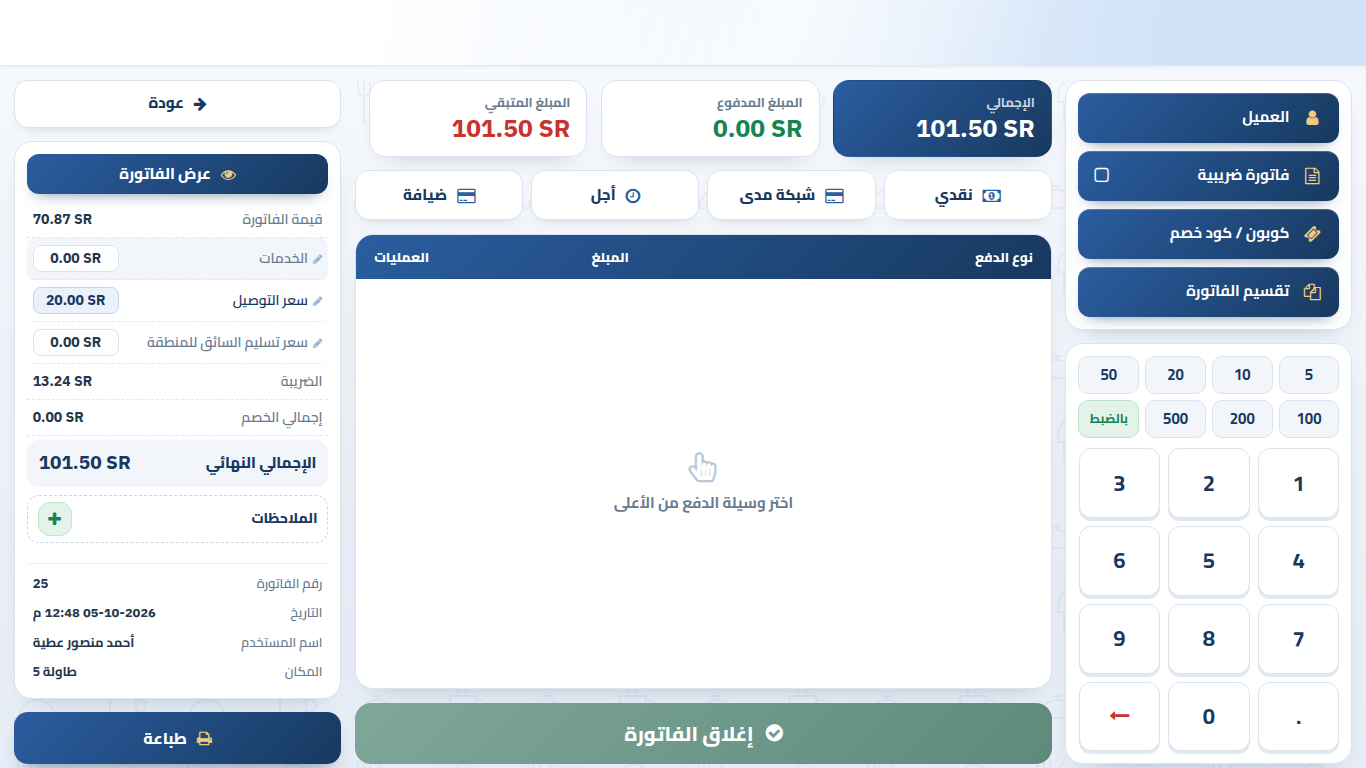
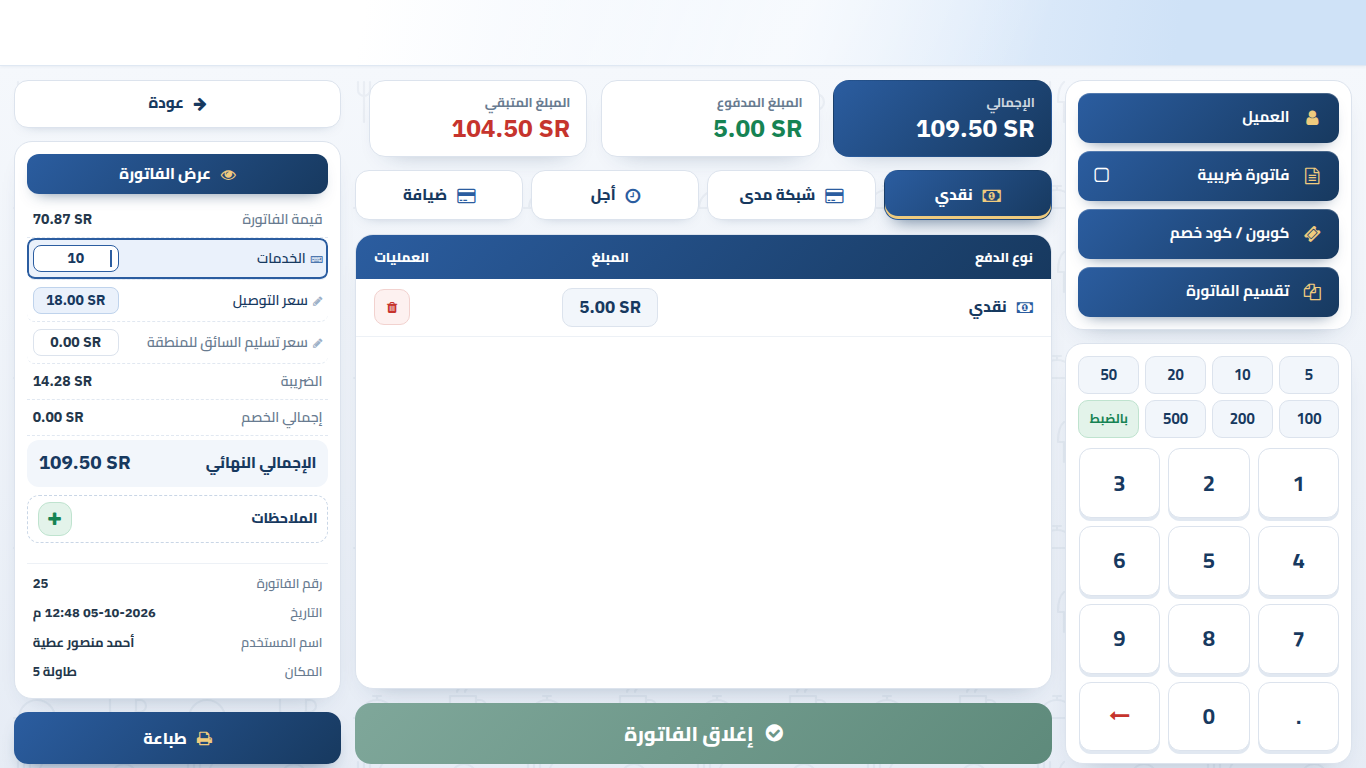
hosny_pos_payment: type fees inline, no popup
Tapping a fee row makes it the input target: digits from the physical
keyboard or the on-screen numpad go into it through the same number
buffer as the payment lines (updateSelectedPaymentline routes the
buffer to the active fee). The row shows what is being typed with a
caret; an existing fee is loaded into the buffer so a new number
replaces it and Backspace trims it; empty / 0 removes the line. Tapping
the row again, a payment method or a payment line, or a cash note ends
fee entry, and the payment line's highlight is muted meanwhile. Writes
are queued so fast typing never creates the fee line twice.

Claude-Session: https://claude.ai/code/session_01Lnz3E3QEWwCq9W3i1o8rQR

diff --git a/addons/hosny_pos_payment/static/src/js/payment_screen.js b/addons/hosny_pos_payment/static/src/js/payment_screen.js
@@ -6,13 +6,12 @@
  * التصديق — وكل ما رقّعته الموديولات الأخرى على الفئة كما هو؛ وما كانت تضيفه
  * إلى القالب القديم (ملاحظات الفاتورة، الكوبون) يُستدعى هنا إن وُجد.
  */
-import { Component } from "@odoo/owl";
+import { Component, useState } from "@odoo/owl";
 import { patch } from "@web/core/utils/patch";
 import { Dialog } from "@web/core/dialog/dialog";
 import { deserializeDateTime } from "@web/core/l10n/dates";
 import { PaymentScreen } from "@point_of_sale/app/screens/payment_screen/payment_screen";
 import { OrderReceipt } from "@point_of_sale/app/screens/receipt_screen/receipt/order_receipt";
-import { NumberPopup } from "@point_of_sale/app/components/popups/number_popup/number_popup";
 
 const pad = (n) => String(n).padStart(2, "0");
 
@@ -41,6 +40,11 @@ patch(PaymentScreen, {
 });
 
 patch(PaymentScreen.prototype, {
+    setup() {
+        super.setup(...arguments);
+        this.hpState = useState({ fee: null });
+    },
+
     /** 81.50 SR — الرمز بعد الرقم، معزول LTR داخل الشاشة العربية. */
     hpMoney(amount) {
         const symbol = this.pos.currency?.symbol ?? "";
@@ -89,7 +93,17 @@ patch(PaymentScreen.prototype, {
             // بلا اتصال: يبقى التحذير أدناه
         }
     },
-    async hpEditFee(fee) {
+    /**
+     * صف رسوم «نشط»: ما يُكتب بعده — من الكيبورد أو من لوحة الأرقام — يذهب
+     * إليه بدل سطر الدفع (مخزن الأرقام واحد، انظر updateSelectedPaymentline).
+     * الضغط على الصف نفسه مرة ثانية، أو على وسيلة/سطر دفع، يُنهي الكتابة فيه.
+     */
+    async hpToggleFee(fee) {
+        if (this.hpState.fee === fee.key) {
+            this.hpState.fee = null;
+            this.numberBuffer.reset();
+            return;
+        }
         if (!fee.product) {
             await this.hpLoadFeeProducts();
             fee = this.hpFees.find((f) => f.key === fee.key);
@@ -101,14 +115,35 @@ patch(PaymentScreen.prototype, {
             );
             return;
         }
-        this.dialog.add(NumberPopup, {
-            title: fee.label,
-            startingValue: fee.line ? this.env.utils.formatCurrency(fee.line.price_unit, false) : "",
-            confirmButtonLabel: "حفظ",
-            getPayload: (value) => this.hpSetFee(fee, this.env.utils.parseValidFloat(String(value || 0))),
-        });
+        this.hpState.fee = fee.key;
+        if (fee.line) {
+            // المبلغ الحالي في المخزن: رقم جديد يستبدله، والمسح يحذف آخر خانة
+            this.numberBuffer.set(String(fee.line.price_unit));
+            this.numberBuffer.isReset = false;
+        } else {
+            this.numberBuffer.reset();
+        }
     },
-    async hpSetFee(fee, price) {
+    hpFeeActive(fee) {
+        return this.hpState.fee === fee.key;
+    },
+    /** أثناء الكتابة يُعرض ما كُتب كما هو (مثل «15.»)، وإلا المبلغ شاملاً الضريبة. */
+    hpFeeDisplay(fee) {
+        if (this.hpFeeActive(fee)) {
+            const typed = this.numberBuffer.get();
+            return typed ? `\u2066${typed}\u2069` : "…";
+        }
+        return this.hpMoney(fee.amount);
+    },
+    /** الكتابة السريعة تُرسل قيمة مع كل ضغطة؛ تُطبَّق بالترتيب حتى لا يُنشأ
+     * السطر مرتين قبل أن ينتهي إنشاؤه أول مرة. */
+    hpSetFee(fee, price) {
+        this._hpFeeQueue = (this._hpFeeQueue || Promise.resolve())
+            .then(() => this._hpApplyFee(fee, price))
+            .catch(() => {});
+        return this._hpFeeQueue;
+    },
+    async _hpApplyFee(fee, price) {
         const order = this.currentOrder;
         const line = order.lines.find((l) => l.product_id?.id === fee.product.id);
         if (!price || price <= 0) {
@@ -129,6 +164,28 @@ patch(PaymentScreen.prototype, {
             {},
             false
         );
+    },
+    updateSelectedPaymentline(amount = false) {
+        const fee = this.hpState?.fee && this.hpFees.find((f) => f.key === this.hpState.fee);
+        if (fee?.product) {
+            const value =
+                amount !== false ? amount : this.numberBuffer.get() ? this.numberBuffer.getFloat() : 0;
+            this.hpSetFee(fee, value);
+            return;
+        }
+        return super.updateSelectedPaymentline(...arguments);
+    },
+    addNewPaymentLine() {
+        if (this.hpState) {
+            this.hpState.fee = null;
+        }
+        return super.addNewPaymentLine(...arguments);
+    },
+    selectPaymentLine() {
+        if (this.hpState) {
+            this.hpState.fee = null;
+        }
+        return super.selectPaymentLine(...arguments);
     },
     get hpInvoiceNumber() {
         const order = this.currentOrder;
@@ -249,6 +306,7 @@ patch(PaymentScreen.prototype, {
         return method ? await this.addNewPaymentLine(method) : false;
     },
     async hpTender(value) {
+        this.hpState.fee = null;
         if (!(await this.hpEnsureLine())) {
             return;
         }
@@ -257,6 +315,7 @@ patch(PaymentScreen.prototype, {
     },
     /** المبلغ المتبقي كاملاً في السطر المحدد. */
     async hpExact() {
+        this.hpState.fee = null;
         if (!(await this.hpEnsureLine())) {
             return;
         }

diff --git a/addons/hosny_pos_payment/static/src/css/payment_screen.css b/addons/hosny_pos_payment/static/src/css/payment_screen.css
@@ -324,6 +324,35 @@
 }
 :is(#hs,.pos) .hp-fee.has-value { color: var(--hp-ink) !important; }
 :is(#hs,.pos) .hp-fee.has-value b { border-color: #BFD3EC; background: #EAF1FB; color: var(--hp-ink); }
+/* the row being typed into: navy ring, the value boxed like an input with a caret */
+:is(#hs,.pos) .hp-fee.is-active {
+    background: #EAF1FB !important;
+    box-shadow: inset 0 0 0 2px var(--hp-navy-a) !important;
+    color: var(--hp-ink) !important;
+}
+:is(#hs,.pos) .hp-fee.is-active .fa { color: var(--hp-navy-a); }
+:is(#hs,.pos) .hp-fee.is-active b {
+    position: relative;
+    border-color: var(--hp-navy-a);
+    background: #FFFFFF;
+    color: var(--hp-ink);
+}
+:is(#hs,.pos) .hp-fee.is-active b::after {
+    content: "";
+    position: absolute; inset-block: 4px; inset-inline-start: 6px;
+    inline-size: 2px;
+    background: var(--hp-navy-a);
+    animation: hp-caret 1s steps(1) infinite;
+}
+@keyframes hp-caret { 50% { opacity: 0; } }
+/* while a fee row takes the typing, the selected payment line stops looking like the target */
+:is(#hs,.pos) .hp-screen.is-fee-focus .hp-line.is-selected { background: transparent; }
+:is(#hs,.pos) .hp-screen.is-fee-focus .hp-line.is-selected .hp-line-amount {
+    background: var(--hp-soft);
+    border-color: var(--hp-line);
+    color: var(--hp-ink);
+    box-shadow: none;
+}
 :is(#hs,.pos) .hp-row.is-total {
     margin-block-start: 4px;
     padding: 9px 12px;
